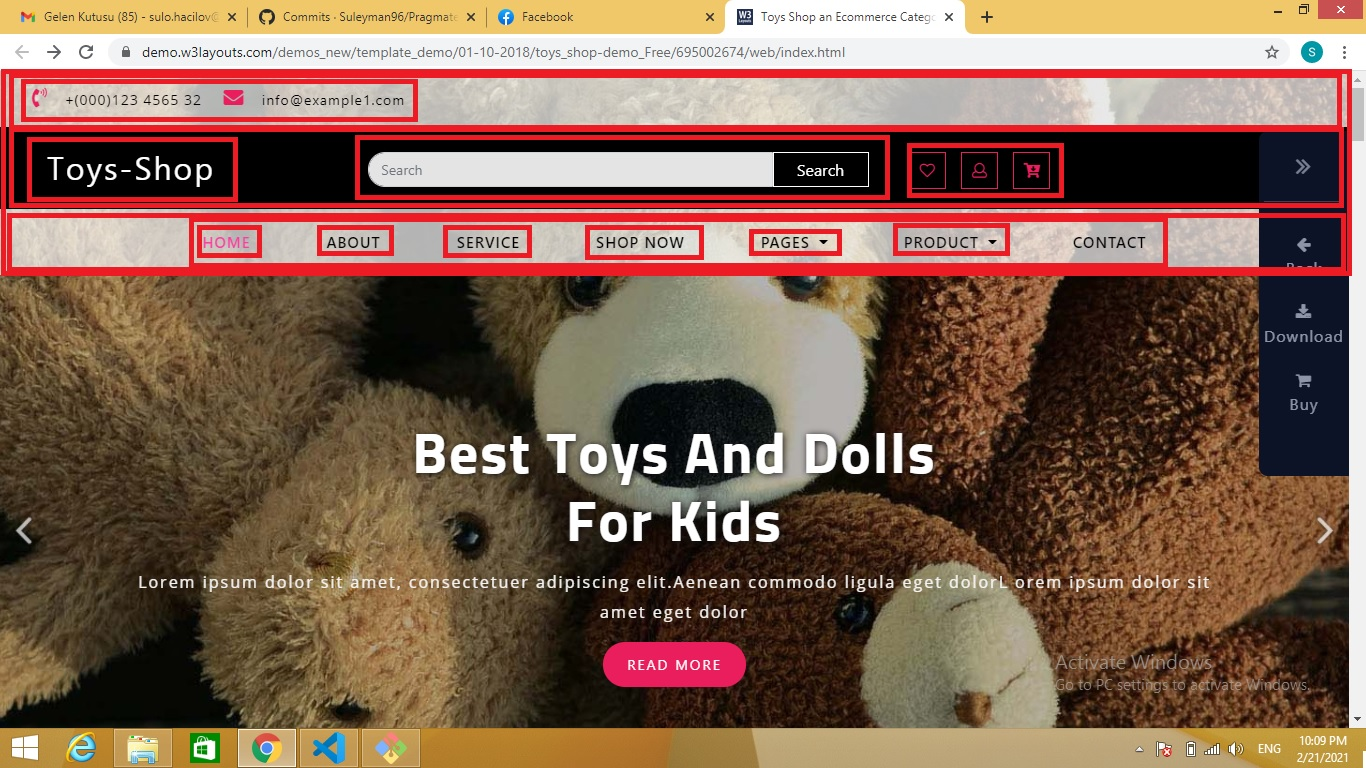
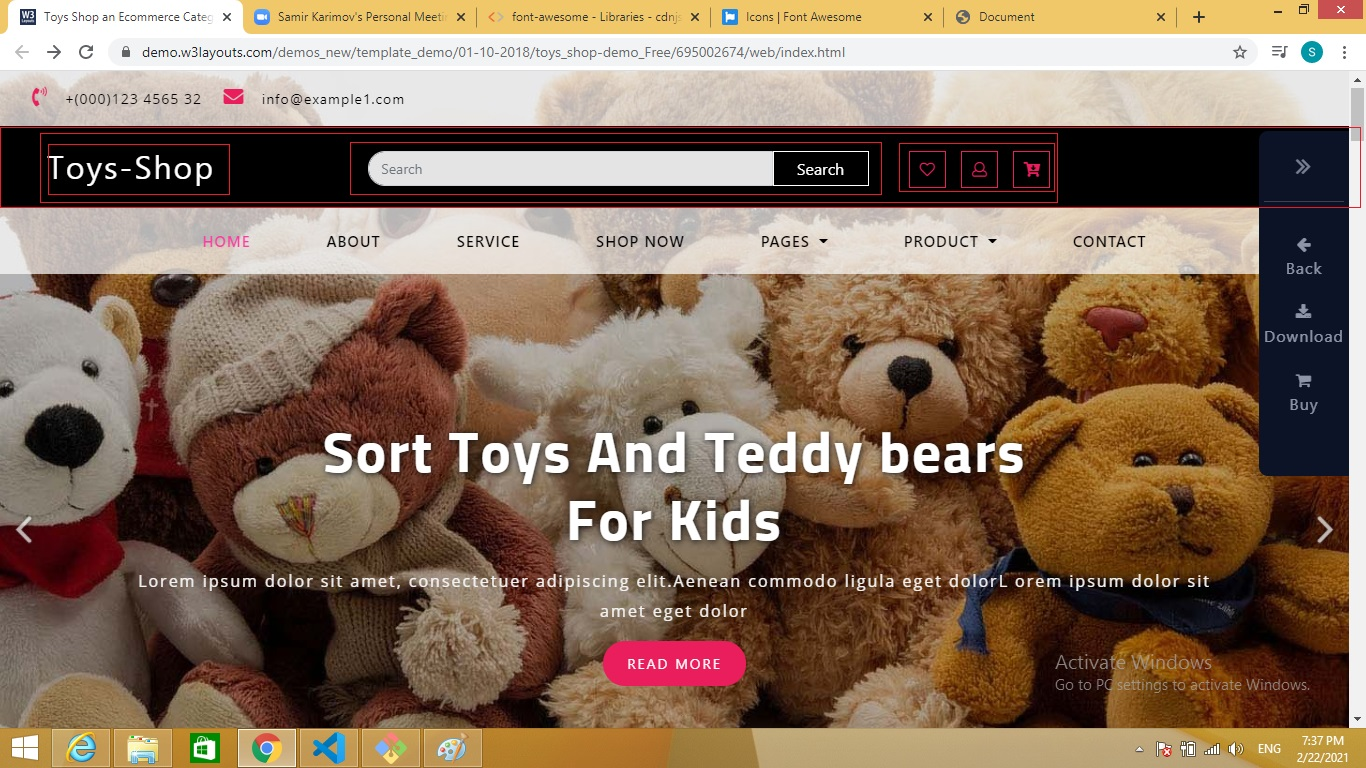
Header navbar bolmesinde menu yerlesdirildi.

diff --git a/Week02- Day03/EndTemplate/css/style.css b/Week02- Day03/EndTemplate/css/style.css
@@ -1,6 +1,7 @@
 body{
     margin: 0px;
-    font-family: 'Newsreader', serif;
+    font-family: 'Cantarell', sans-serif;
+    font-size: 14px;
    
 }
 /* Header bolmesi */
@@ -61,9 +62,9 @@ font-size: 20px;
 } 
 .serchbar-container h1{
     margin: 0rem;
-    letter-spacing: 0.4rem;
+    letter-spacing: 0.1rem;
     font-size: 2rem;
-    font-weight: 40rem;
+    font-weight: 30rem;
     text-transform: capitalize;
 } 
 .box{
@@ -94,7 +95,7 @@ font-size: 20px;
     margin: 0px 10px;
     
     display: flex;
-    justify-content: space-between
+    justify-content: space-between;
     align-items: center;
     
 }
@@ -106,6 +107,28 @@ font-size: 20px;
 }
 
 /* Header navbar bolmesi */
+.header-navbar{
+    background-color: #fff;
+    padding: 16px 0px;
+    color: #212529;
+}
 .navbar-container{
-    border: 1px solid blue;
+    /* border: 1px solid blue; */
+    justify-content: space-between;
+    align-items: center;
+    margin: 0px 200px;
+}
+.navbar-container ul{
+    margin: 0px;
+    padding:0px;
+    display: flex;
+}
+.navbar-container ul li{
+    list-style: none;
+    padding: 0px 25px;
+
+    font-size: 16px;
+    font-size: 1.2em;
+    text-transform: uppercase;
+    font-weight: 600;
 }

diff --git a/Week02- Day03/EndTemplate/index.html b/Week02- Day03/EndTemplate/index.html
@@ -4,7 +4,7 @@
   
     <title>Document</title>
     <link rel="preconnect" href="https://fonts.gstatic.com">
-<link href="https://fonts.googleapis.com/css2?family=Newsreader:ital,wght@1,300;1,400;1,600;1,700&display=swap" rel="stylesheet">
+    <link href="https://fonts.googleapis.com/css2?family=Cantarell:wght@400;700&family=Newsreader:ital,wght@1,300;1,400;1,600;1,700&display=swap" rel="stylesheet">
     <link rel="stylesheet" href="https://cdnjs.cloudflare.com/ajax/libs/font-awesome/5.15.2/css/all.min.css" integrity="sha512-HK5fgLBL+xu6dm/Ii3z4xhlSUyZgTT9tuc/hSrtw6uzJOvgRr2a9jyxxT1ely+B+xFAmJKVSTbpM/CuL7qxO8w==" crossorigin="anonymous" />
     <link rel="stylesheet" href="css/style.css">
 </head>
@@ -46,7 +46,18 @@
 <!-- Header-searcbar end -->
 
     <div class="header-navbar">
-       <div class="navbar-container">menu</div>
+       <div class="navbar-container">
+           <ul>
+               <li>Home</li>
+               <li>About</li>
+               <li>Service</li>
+               <li>Shop now</li>
+               <li>Pages</li>
+               <li>Product</li>
+               <li>Contact</li>
+               
+           </ul>
+       </div>
     </div>
    </section>
     
